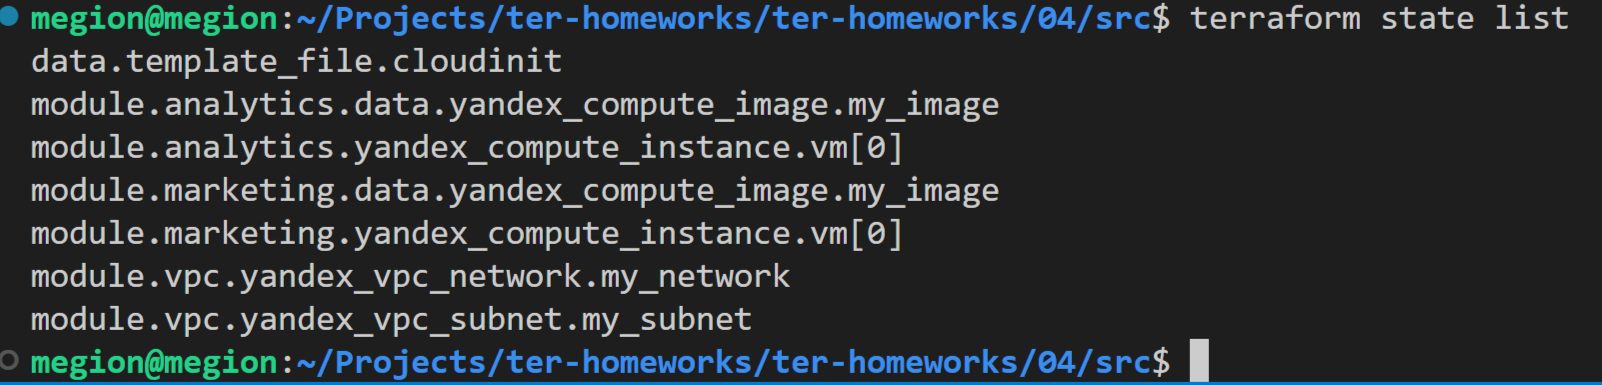
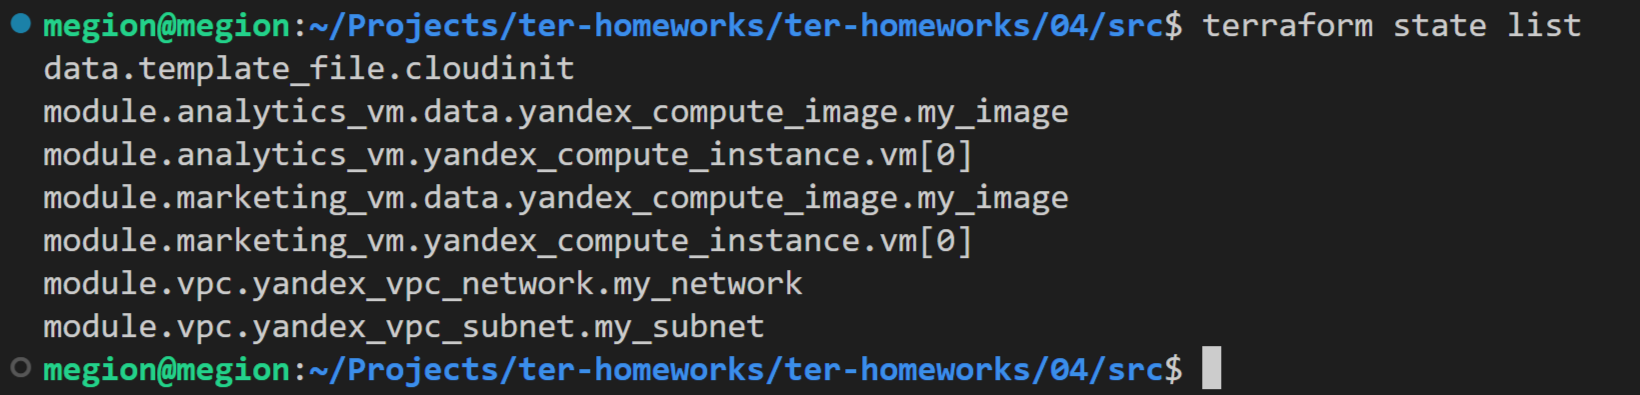
Home_work_4_v0.4

diff --git a/04/hw-04ans.md b/04/hw-04ans.md
@@ -54,10 +54,13 @@
 3. Модуль должен возвращать в root module с помощью output информацию о yandex_vpc_subnet. Пришлите скриншот информации из terraform console о своем модуле. Пример: > module.vpc_dev  
 4. Замените ресурсы yandex_vpc_network и yandex_vpc_subnet созданным модулем. Не забудьте передать необходимые параметры сети из модуля vpc в модуль с виртуальной машиной.
 5. Сгенерируйте документацию к модулю с помощью terraform-docs.
- 
+
+------ 
 ### Ответ
 
 Документация к модулю: [README.md](https://github.com/megasts/ter-homeworks/blob/terraform-04/04/src/vpc/README.md)
+
+------
 
 ### Задание 3
 1. Выведите список ресурсов в стейте.
@@ -66,14 +69,44 @@
 4. Импортируйте всё обратно. Проверьте terraform plan. Значимых(!!) изменений быть не должно.
 Приложите список выполненных команд и скриншоты процессы.
 
+------
+
 ### Ответ
 1. Выведите список ресурсов в стейте.
 ```
 terraform state list
 ```
-![Screenshot3_1](https://github.com/megasts/ter-homeworks/blob/main/04/img/Screenshot3_1.png)
+![Screenshot3_1](https://github.com/megasts/ter-homeworks/blob/terraform-04/04/img/Screenshot3_1.png)
 
 2. Полностью удалите из стейта модуль vpc.
+```
+terraform state rm module.vpc
+```
+![Screenshot3_2](https://github.com/megasts/ter-homeworks/blob/terraform-04/04/img/Screenshot3_2.png)
+
+3. Полностью удалите из стейта модуль vm.
+```
+terraform state rm module.analytics_vm
+terraform state rm module.marketing_vm
+```
+![Screenshot3_3](https://github.com/megasts/ter-homeworks/blob/terraform-04/04/img/Screenshot3_3.png)
+
+4. Импортируйте всё обратно.
+```
+terraform import module.analytics_vm.yandex_compute_instance.vm[0] fhmciamqat6poetbe2tp
+terraform import module.marketing_vm.yandex_compute_instance.vm[0] fhmoopcua3apvo1v503e
+terraform import module.vpc.yandex_vpc_subnet.my_subnet e9b2ash7or07isrjg85e
+terraform import module.vpc.yandex_vpc_network.my_network enpv8hcj2qfl85ed16bm
+```
+![Screenshot3_4](https://github.com/megasts/ter-homeworks/blob/terraform-04/04/img/Screenshot3_4.png)
+
+![Screenshot3_5](https://github.com/megasts/ter-homeworks/blob/terraform-04/04/img/Screenshot3_5.png)
+
+![Screenshot3_6](https://github.com/megasts/ter-homeworks/blob/terraform-04/04/img/Screenshot3_6.png)
+
+![Screenshot3_7](https://github.com/megasts/ter-homeworks/blob/terraform-04/04/img/Screenshot3_7.png)
+
+------
 
 ## Дополнительные задания (со звёздочкой*)
 
